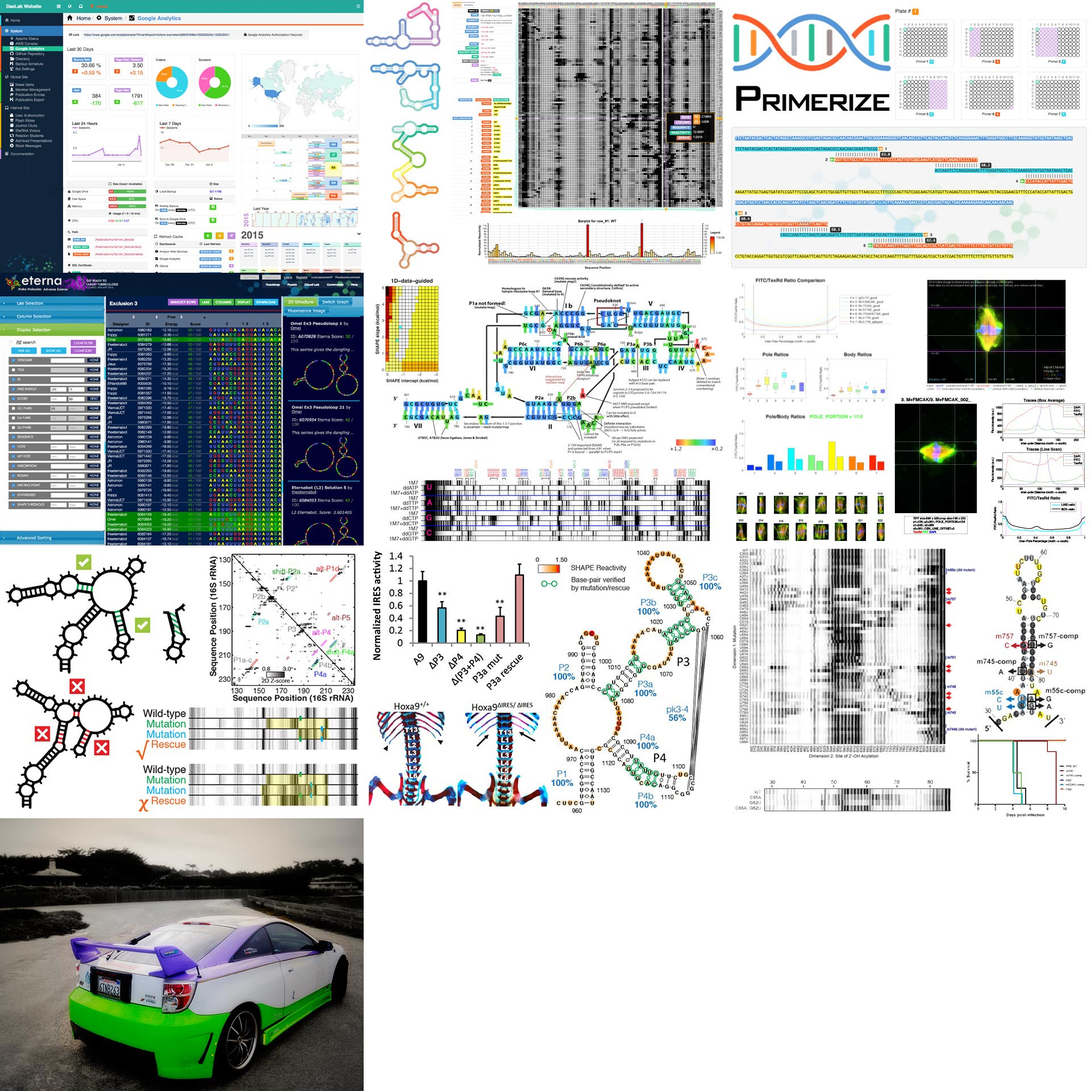
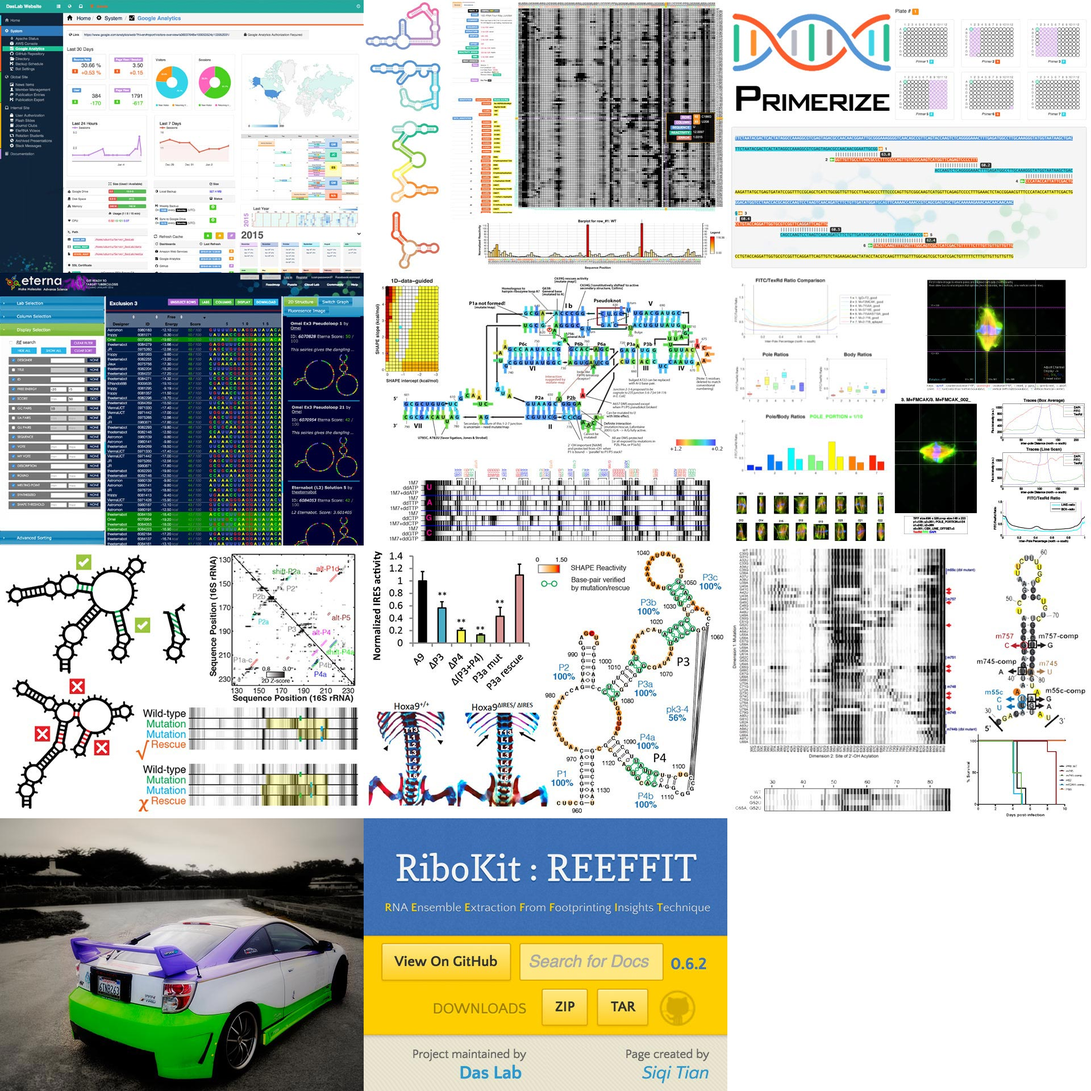
add ribokit thumb

Changed region(s): [[0.3125, 0.75, 0.6875, 1.0]]

diff --git a/public/css/sprites_index.css b/public/css/sprites_index.css
@@ -8,7 +8,7 @@ div.publication_sprite {
 .thumb_daslab, .thumb_rmdb, .thumb_primerize,
 .thumb_eterna, .thumb_hitrace, .thumb_spindle,
 .thumb_m2r, .thumb_ires, .thumb_flu,
-.thumb_celica {
+.thumb_celica, .thumb_ribokit {
   max-width: 640px; 
   max-height: 480px;
 }
@@ -16,7 +16,7 @@ div.publication_sprite {
 .thumb_daslab::after, .thumb_rmdb::after, .thumb_primerize::after,
 .thumb_eterna::after, .thumb_hitrace::after, .thumb_spindle::after,
 .thumb_m2r::after, .thumb_ires::after, .thumb_flu::after,
-.thumb_celica::after {
+.thumb_celica::after, .thumb_ribokit::after {
   content: ' ';
   display: inline-block;
   max-width: 100%;
@@ -37,6 +37,7 @@ div.publication_sprite {
 .thumb_ires::after { background-position: 50% 66.67%; }
 .thumb_flu::after { background-position: 100% 66.67%; }
 .thumb_celica::after { background-position: 0% 100%; }
+.thumb_ribokit::after { background-position: 50% 100%; }
 
 
 .pub_2013_Shi_NewPhytol,
